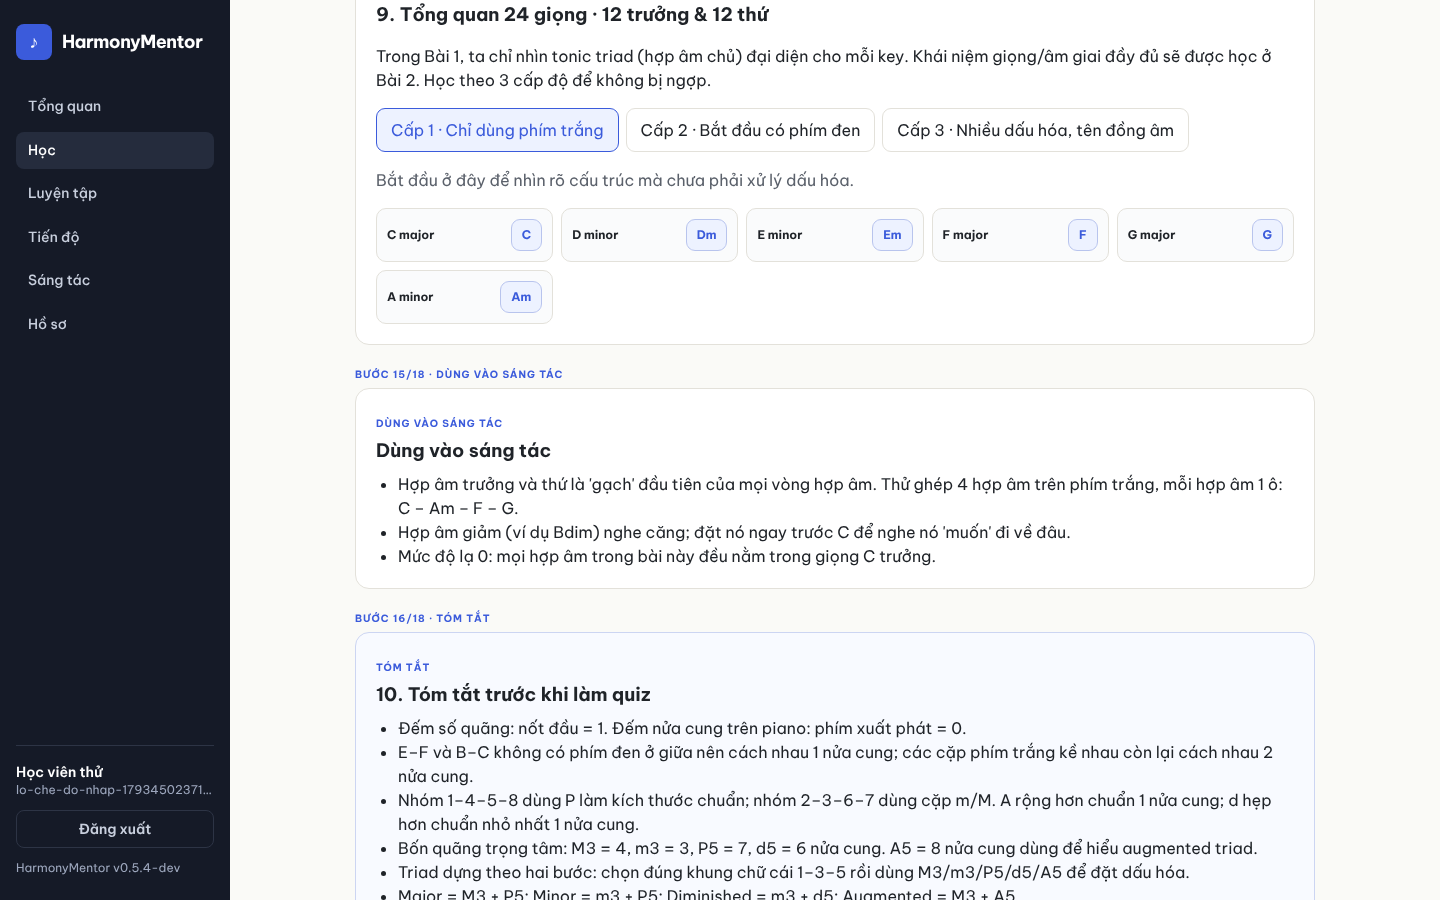
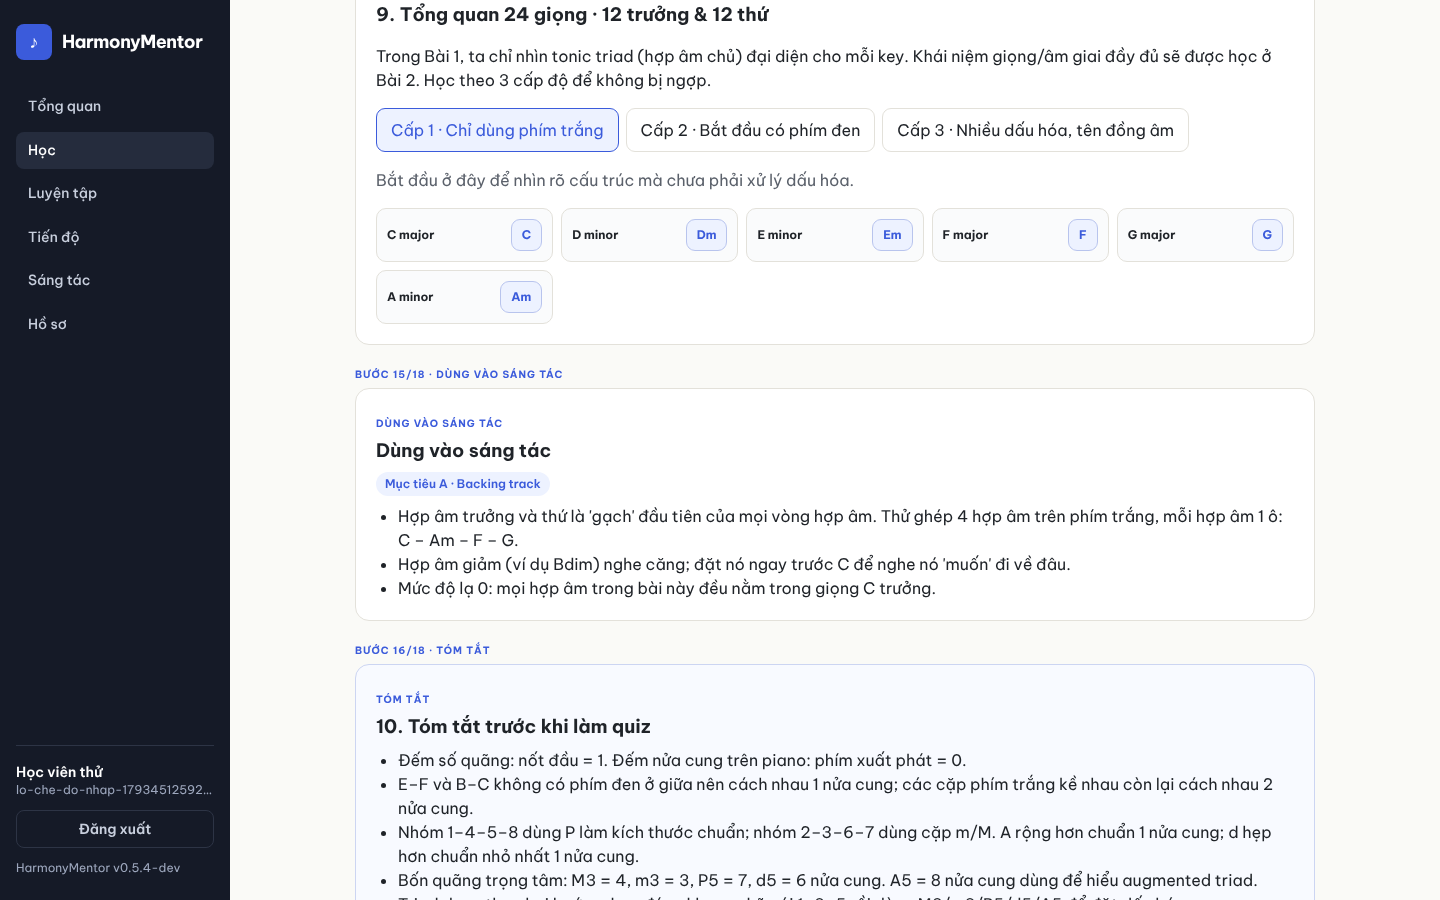
feat(content): nhãn mục tiêu A (backing track) / B (vòng lạ) cho mục "Dùng vào sáng tác"
Phúc chọn lộ trình theo SRS Bảng 7 kèm nhãn A/B (31/10).

Claude-Session: https://claude.ai/code/session_017pYjeY2D6PW3shMchStEVw

Changed region(s): [[0.25, 0.5289, 0.875, 1.0], [0.125, 0.8711, 0.1562, 0.9022]]

diff --git a/frontend/src/components/learning/LessonRunner.tsx b/frontend/src/components/learning/LessonRunner.tsx
@@ -67,6 +67,9 @@ function inputPresentation(exercise: LessonExercise): InputPresentation {
 }
 
 // Nhãn tiếng Việt cho từng loại khối; người học không cần thấy tên kỹ thuật như "theory".
+// A = backing track, B = vòng hợp âm lạ (mục tiêu sản phẩm của phuc-music).
+const GOAL_LABELS: Record<string, string> = { A: "Mục tiêu A · Backing track", B: "Mục tiêu B · Vòng hợp âm lạ" };
+
 const BLOCK_LABELS: Record<string, string> = {
   theory: "Lý thuyết",
   callout: "Lưu ý",
@@ -478,6 +481,15 @@ function BlockRenderer({
 
   if (block.block_type === "callout") {
     return <article className="lesson-content-block callout-block"><span className="section-kicker">Lưu ý</span><h3>{title}</h3>{prompt && <p>{prompt}</p>}</article>;
+  }
+
+  if (block.block_type === "compose_link") {
+    // Nhãn mục tiêu A/B do backend gửi trong payload.goals; frontend chỉ hiển thị.
+    const goals = Array.isArray(block.payload.goals) ? block.payload.goals.filter((g): g is string => typeof g === "string") : [];
+    return <article className="lesson-content-block compose-block"><span className="section-kicker">Dùng vào sáng tác</span><h3>{title}</h3>
+      {goals.length > 0 && <p className="goal-badges">{goals.map((goal) => <span key={goal} className="goal-badge">{GOAL_LABELS[goal] ?? `Mục tiêu ${goal}`}</span>)}</p>}
+      {items.length > 0 && <ul>{items.map((item) => <li key={item}>{item}</li>)}</ul>}
+    </article>;
   }
 
   if (block.block_type === "summary") {

diff --git a/frontend/src/styles.css b/frontend/src/styles.css
@@ -327,3 +327,6 @@
 .practice-items li { padding: 6px 10px; border-radius: 7px; border-left: 4px solid var(--line); }
 .practice-items li.good { border-left-color: var(--good); }
 .practice-items li.bad { border-left-color: var(--bad); }
+/* phuc-music: nhãn mục tiêu A/B trong mục "Dùng vào sáng tác" */
+.goal-badges { display: flex; flex-wrap: wrap; gap: 6px; margin: 4px 0 8px; }
+.goal-badge { font-size: 12px; font-weight: 600; padding: 3px 9px; border-radius: 999px; background: var(--color-primary-soft, #eef2ff); color: var(--color-primary, #3046c8); }

diff --git a/backend/app/content/draft_specs.py b/backend/app/content/draft_specs.py
@@ -24,6 +24,14 @@ from .curriculum_specs import (
 )
 
 DRAFT = "draft"
+
+# Nhãn mục tiêu sản phẩm (Phúc chọn 31/10: Bảng 7 + nhãn A/B).
+# A = dựng được backing track ngắn; B = tạo vòng hợp âm lạ mà dễ nghe và giải thích được vì sao lạ.
+GOAL_LABELS = {"A": "Mục tiêu A: backing track", "B": "Mục tiêu B: vòng hợp âm lạ"}
+LESSON_GOALS: dict[str, list[str]] = {
+    "L01": ["A"], "L02": ["A"], "L03": ["A", "B"], "L04": ["A"],
+    "L09": ["B"], "L10": ["A"], "L11": ["A"], "L12": ["A", "B"],
+}
 _UNVERIFIED = "Định vị nguồn do Claude đề xuất, chưa đối chiếu trang; Đạt/Astra xác minh trước khi phát hành."
 
 # SRS 2.1 Bảng 7: thứ tự học là thứ tự trong bảng, không phải thứ tự mã bài.
@@ -55,7 +63,8 @@ def _draft_lesson(lesson_id: str, title: str, objectives: list[str], sources: li
             (f"{lesson_id}-B01", "callout", {"status": DRAFT, "title": "Bản nháp, chưa duyệt",
                                             "prompt": "Dàn ý do Claude đề xuất để Đạt/Astra soạn và kiểm định. Chưa có câu hỏi và thẻ ôn."}),
             (f"{lesson_id}-B02", "theory", {"status": DRAFT, "title": "Dàn ý bài", "items": outline}),
-            (f"{lesson_id}-B03", "compose_link", {"status": DRAFT, "title": "Dùng vào sáng tác", "items": compose}),
+            (f"{lesson_id}-B03", "compose_link", {"status": DRAFT, "title": "Dùng vào sáng tác",
+                                                 "goals": LESSON_GOALS[lesson_id], "items": compose}),
         ],
         "exercises": [], "review_items": [],
     }
@@ -165,6 +174,7 @@ def blocks_with_drafts(spec: dict[str, Any]) -> list[tuple[str, str, dict[str, A
     items = COMPOSE_BLOCKS.get(spec["id"])
     if not items:
         return blocks
-    block = (f"{spec['id']}-BSTAC", "compose_link", {"status": DRAFT, "title": "Dùng vào sáng tác", "items": items})
+    block = (f"{spec['id']}-BSTAC", "compose_link", {"status": DRAFT, "title": "Dùng vào sáng tác",
+                                                     "goals": LESSON_GOALS[spec["id"]], "items": items})
     at = len(blocks) - 1 if blocks and blocks[-1][1] == "summary" else len(blocks)
     return blocks[:at] + [block] + blocks[at:]

diff --git a/backend/tests/test_phuc_music_lo_trinh.py b/backend/tests/test_phuc_music_lo_trinh.py
@@ -15,7 +15,15 @@ from sqlalchemy.orm import sessionmaker
 
 from app.content import versioning
 from app.content.curriculum_specs import LESSON_SPECS, MIGRATED_LESSON_IDS
-from app.content.draft_specs import COMPOSE_BLOCKS, CURRICULUM_MODULES, DRAFT_LESSON_SPECS, module_order
+from app.content.draft_specs import (
+    COMPOSE_BLOCKS,
+    CURRICULUM_MODULES,
+    DRAFT_LESSON_SPECS,
+    GOAL_LABELS,
+    LESSON_GOALS,
+    blocks_with_drafts,
+    module_order,
+)
 from app.content.seed_data import seed_initial_data
 from app.content.source_registry import SOURCE_REGISTRY
 from app.db.models import Base, Lesson
@@ -120,3 +128,14 @@ def test_nhac_ly_trong_muc_sang_tac_khop_engine():
     assert names("G7")[1] == "B" and names("G7")[3] == "F"
     assert names("Cmaj7")[1] == "E" and names("Cmaj7")[3] == "B"
     assert set(COMPOSE_BLOCKS) == {"L01", "L02", "L03", "L04"}
+
+
+def test_moi_muc_sang_tac_co_nhan_muc_tieu_a_b():
+    for spec in LESSON_SPECS + DRAFT_LESSON_SPECS:
+        compose = [p for _, kind, p in blocks_with_drafts(spec) if kind == "compose_link"]
+        if spec["id"] in set(COMPOSE_BLOCKS) | {s["id"] for s in DRAFT_LESSON_SPECS}:
+            assert len(compose) == 1 and compose[0]["goals"], spec["id"]
+            assert set(compose[0]["goals"]) <= set(GOAL_LABELS)
+    # Cả hai mục tiêu đều có bài phục vụ, và bài thực hành cuối (L12) gom cả A lẫn B.
+    assert {g for goals in LESSON_GOALS.values() for g in goals} == {"A", "B"}
+    assert LESSON_GOALS["L12"] == ["A", "B"]

diff --git a/docs/phuc-music/BAO_CAO_BUOC_2.md b/docs/phuc-music/BAO_CAO_BUOC_2.md
@@ -14,7 +14,7 @@ Ngày 31/10/2026. Nhánh `phuc-music`, Draft PR #18. Bước 2 dựng trên nhá
    - Trang Luyện tập hiện 10 lượt gần nhất và thống kê đúng/tổng theo từng dạng bài.
    - Lượt làm của Admin ghi `is_test`. Phần này **chưa nối mastery** (xem mục 5).
    - Bảng mới lệch ERD tài liệu 04, nên có `ADR-009-de-xuat-lich-su-luyen-tap.md` chờ Thắng duyệt schema.
-5. **Lộ trình 12 bài theo SRS 2.1 Bảng 7.** Đây là phương án Claude khuyên trên thẻ quyết định. Phúc chưa chọn, và đổi lại cũng dễ.
+5. **Lộ trình 12 bài theo SRS 2.1 Bảng 7.** Phúc chọn phương án này trên thẻ quyết định lúc 12:53 ngày 31/10, kèm nhãn mục tiêu A/B.
    - Module và thứ tự lấy từ `CURRICULUM_MODULES` (`draft_specs.py`).
    - Mã L01–L08 và nội dung giữ nguyên (3A). Chỉ đổi `order` và `track`.
    - Số "Bài n" hiển thị đếm theo những bài người học đang thấy, nên không bị nhảy từ Bài 2 sang Bài 5.
@@ -22,6 +22,7 @@ Ngày 31/10/2026. Nhánh `phuc-music`, Draft PR #18. Bước 2 dựng trên nhá
 6. **Nội dung nháp, chờ Đạt/Astra duyệt** (`backend/app/content/draft_specs.py`).
    - L09–L12: mỗi bài có mục tiêu, nguồn trong `source_registry` và dàn ý. Chưa có câu hỏi và thẻ ôn.
    - Mục "Dùng vào sáng tác" cho L01–L04, chèn ngay trước phần tóm tắt.
+   - Mỗi mục "Dùng vào sáng tác" mang nhãn mục tiêu: A (backing track) và/hoặc B (vòng hợp âm lạ), theo `LESSON_GOALS`. L12 phục vụ cả A và B.
    - Tất cả chỉ hiện khi `SHOW_DRAFT_CONTENT=1`. Người học không thấy gì mới, và nội dung bài đã phát hành giữ nguyên.
    - Các câu nhạc lý trong mục "Dùng vào sáng tác" đã kiểm bằng Engine (test `test_nhac_ly_trong_muc_sang_tac_khop_engine`).
 
@@ -37,15 +38,16 @@ Ngày 31/10/2026. Nhánh `phuc-music`, Draft PR #18. Bước 2 dựng trên nhá
 | `4ac0cf0` | feat(practice): trang Luyện tập có lịch sử |
 | `a550b2c` | docs(adr): ADR-009 đề xuất |
 | `05c85f6` | feat(content): lộ trình Bảng 7, nháp L09–L12, "Dùng vào sáng tác" |
+| (commit sau) | feat(content): nhãn mục tiêu A/B |
 
 ## 3. Kiểm tra (chạy thật ngày 31/10/2026)
 
 | Lệnh | Kết quả |
 |---|---|
-| `cd backend && pytest -q` | **370 passed, 21 skipped** (main: 325; thêm 25 API Bài 1, 7 + 2 Luyện tập, 6 lộ trình; PR #12 thêm 5) |
+| `cd backend && pytest -q` | **371 passed, 21 skipped** (main: 325; thêm 25 API Bài 1, 7 + 2 Luyện tập, 7 lộ trình; PR #12 thêm 5) |
 | `cd frontend && npm test` | **195 passed** (PR #12: 182; thêm 4 `lesson1Theory`, 9 `pianoKeyLabel`) |
 | `cd frontend && npm run build` | Đạt |
-| `ci.yml` | `--min-passed` nâng từ 355 lên 370 |
+| `ci.yml` | `--min-passed` nâng từ 355 lên 371 |
 | `node scripts/phuc-music/luong_buoc2_luyentap.cjs` | 1440px và 390px: trả lời sai rồi đúng, lịch sử ghi "Hợp âm 1/2 đúng". Trang chỉ gọi `/practice/*`, không gọi thẳng `/engine/grade` |
 | `node scripts/phuc-music/luong_buoc2_lotrinh.cjs` | Người học thấy 8 bài theo Bảng 7; chế độ nháp thấy đủ 12 bài, L01 có mục "Dùng vào sáng tác" |
 | Bài 1 trên trình duyệt | Nốt gốc G#: B#4, D##5. Mỗi nốt gốc (C, Ab, G#) gọi API một lần |
@@ -71,7 +73,7 @@ Ngày 31/10/2026. Nhánh `phuc-music`, Draft PR #18. Bước 2 dựng trên nhá
 
 ## 6. Câu hỏi cho nhóm
 
-- **Q1 (Phúc):** thẻ quyết định thứ tự 12 bài vẫn chờ. Nếu giữ Bảng 7, bài ii–V–I (L04, đã chạy được) đứng thứ 6, sau hai bài "Sắp có" (L05, L06). Người học vẫn mở được, nhưng nhãn sẽ ghi "Nên học sau Bài 5", mà Bài 5 lại là bài chưa có nội dung. Có nên thêm quy tắc "bỏ qua bài Sắp có khi gợi ý thứ tự" không?
+- **Q1 (Phúc):** Phúc đã chọn Bảng 7. Theo đó, bài ii–V–I (L04, đã chạy được) đứng thứ 6, sau hai bài "Sắp có" (L05, L06). Người học vẫn mở được, nhưng nhãn sẽ ghi "Nên học sau Bài 5", mà Bài 5 lại là bài chưa có nội dung. Có nên thêm quy tắc "bỏ qua bài Sắp có khi gợi ý thứ tự" không?
 - **Q2 (Phúc/Thắng):** chỉ dẫn ban đầu ghi "sửa Eb → D# ở piano", còn HM-011 (PR #15) thì để payload dùng tên thăng. Mình mới sửa phần hiển thị (D#/Eb). Có cần đổi cả payload không?
 - **Q3 (Thắng):** duyệt schema `practice_attempts` (ADR-009), và chốt L-1/L-2/L-5/L-6 để làm bài kiểm tra đầu vào và EMA.
 - **Q4 (Đạt/Astra):** duyệt dàn ý L09–L12 và 4 mục "Dùng vào sáng tác". Định vị nguồn của L09–L11 là Claude đề xuất, chưa đối chiếu từng trang.

diff --git a/docs/AI_USAGE.md b/docs/AI_USAGE.md
@@ -20,6 +20,6 @@ Giảng viên cho phép dùng AI để viết code với điều kiện ghi rõ.
 | 28/10 | HM-001 / NL-L01-01 | Claude Code | Sửa quãng tám trong `toScientificInterval/toScientificTriad` và `scientificToMidi` (B#/Cb) theo ticket Astra đã xác minh; thêm Vitest + 182 test so với bảng sinh từ Music Engine, 5 pytest, bước `npm test` trong CI, script sinh bảng, kịch bản Playwright chụp khuông và ghi MIDI. Không sửa Engine, nội dung, CSDL, mastery | CI đỏ ở `npm test` trên commit chỉ có test (run 40734235986), xanh sau sửa; Vitest 28 đỏ → 182 đạt; `pytest` 330; `npm run build`; ảnh khuông trước/sau + 44 lần bấm nghe gửi cùng MIDI (máy tính + điện thoại) | (Phúc, Thắng, Đạt điền) |
 | 30/10 | Sắp xếp tài liệu phase | Claude Code | Chuyển 19 file `PHASE_*`, `VERIFICATION_PHASE_*`, `AUDIT_NGUOI_MOI_HOC`, `BEGINNER_CONTENT_AUDIT_PHASE_2` bằng `git mv` vào `docs/giai-doan/<giai đoạn>/`, thêm mục lục, sửa đường dẫn trong CLAUDE.md, README, AI_USAGE, ADR-003, prompts, 1 test và 2 comment frontend. Không đổi code chạy | Phúc chốt cách xếp (30/10); nhóm đọc diff PR | (điền) |
 | 31/10 | phuc-music Bước 0–1 | Claude Code | Khảo sát tag v0.5.3-dev và main (`docs/phuc-music/00_KHAO_SAT.md`, 26 ảnh so sánh); khung khu học tối kiểu v0.5.3 trong `AppLayout`, nút "Xem cả bài" trong `LessonRunner`, token `--color-shell-*`, phiên bản từ `package.json`, nhật ký gộp 17 quyết định. Không sửa backend, Engine, nội dung | `pytest` 325 passed + 21 skipped; `npm run build` đạt; kịch bản Playwright luồng đăng ký → học → đăng xuất ở 1440px và 390px | (Phúc điền) |
-| 31/10 | phuc-music Bước 2 | Claude Code | Gộp PR #12; API `/music/lesson1/{root}` để Bài 1 lấy nốt từ Engine; piano hiện D#/Eb; Luyện tập chấm phía máy chủ + bảng `practice_attempts` (ADR-009 đề xuất); lộ trình theo SRS Bảng 7; nháp L09–L12 và "Dùng vào sáng tác" (ẩn, chờ Đạt/Astra). Không nối mastery, chưa làm kiểm tra đầu vào | `pytest` 370 passed + 21 skipped; Vitest 195; `npm run build` đạt; Playwright Luyện tập + lộ trình | (Phúc điền) |
+| 31/10 | phuc-music Bước 2 | Claude Code | Gộp PR #12; API `/music/lesson1/{root}` để Bài 1 lấy nốt từ Engine; piano hiện D#/Eb; Luyện tập chấm phía máy chủ + bảng `practice_attempts` (ADR-009 đề xuất); lộ trình theo SRS Bảng 7 + nhãn mục tiêu A/B; nháp L09–L12 và "Dùng vào sáng tác" (ẩn, chờ Đạt/Astra). Không nối mastery, chưa làm kiểm tra đầu vào | `pytest` 371 passed + 21 skipped; Vitest 195; `npm run build` đạt; Playwright Luyện tập + lộ trình | (Phúc điền) |
 
 Nguyên tắc nhóm: không gộp code AI viết khi chưa có người trong nhóm đọc diff và giải thích lại được.
